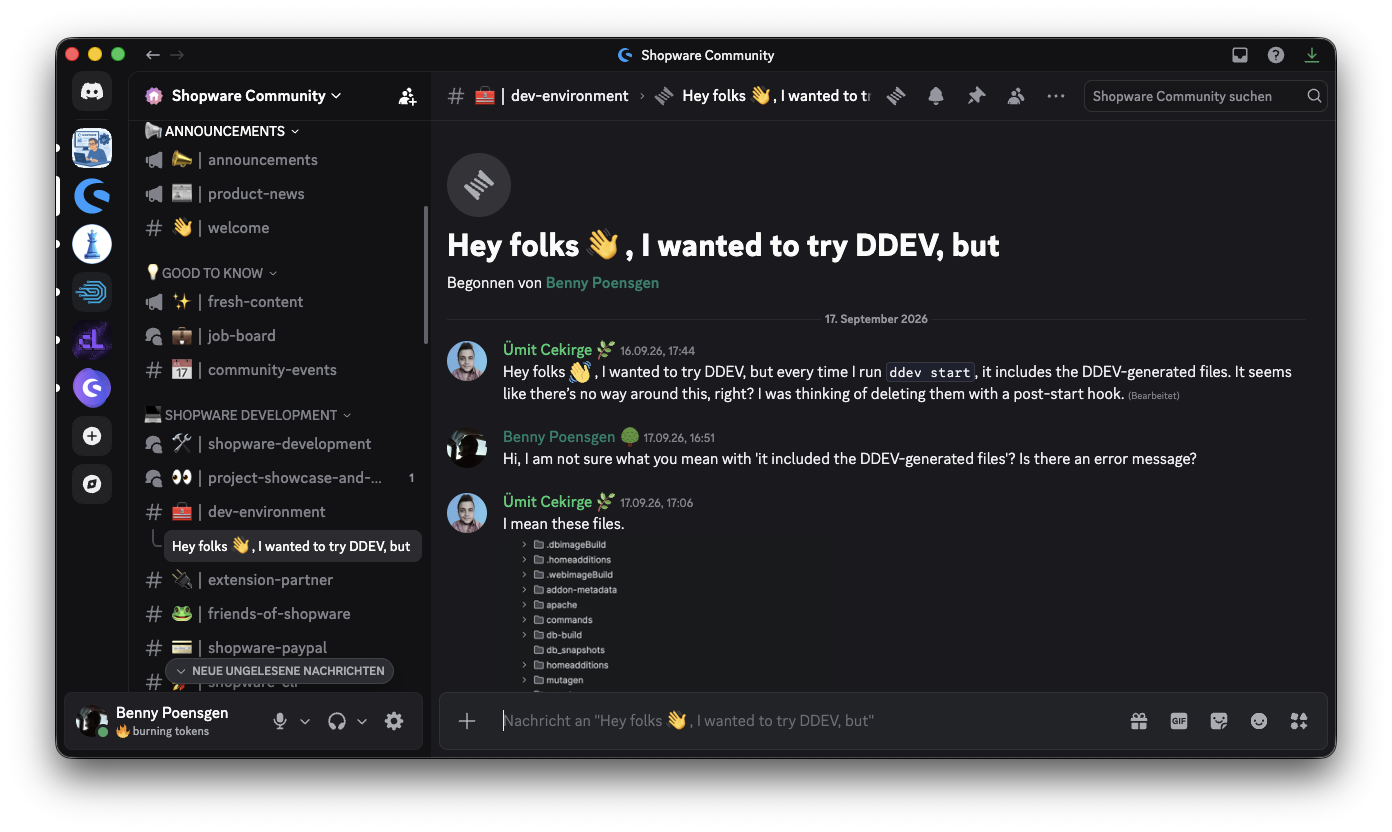
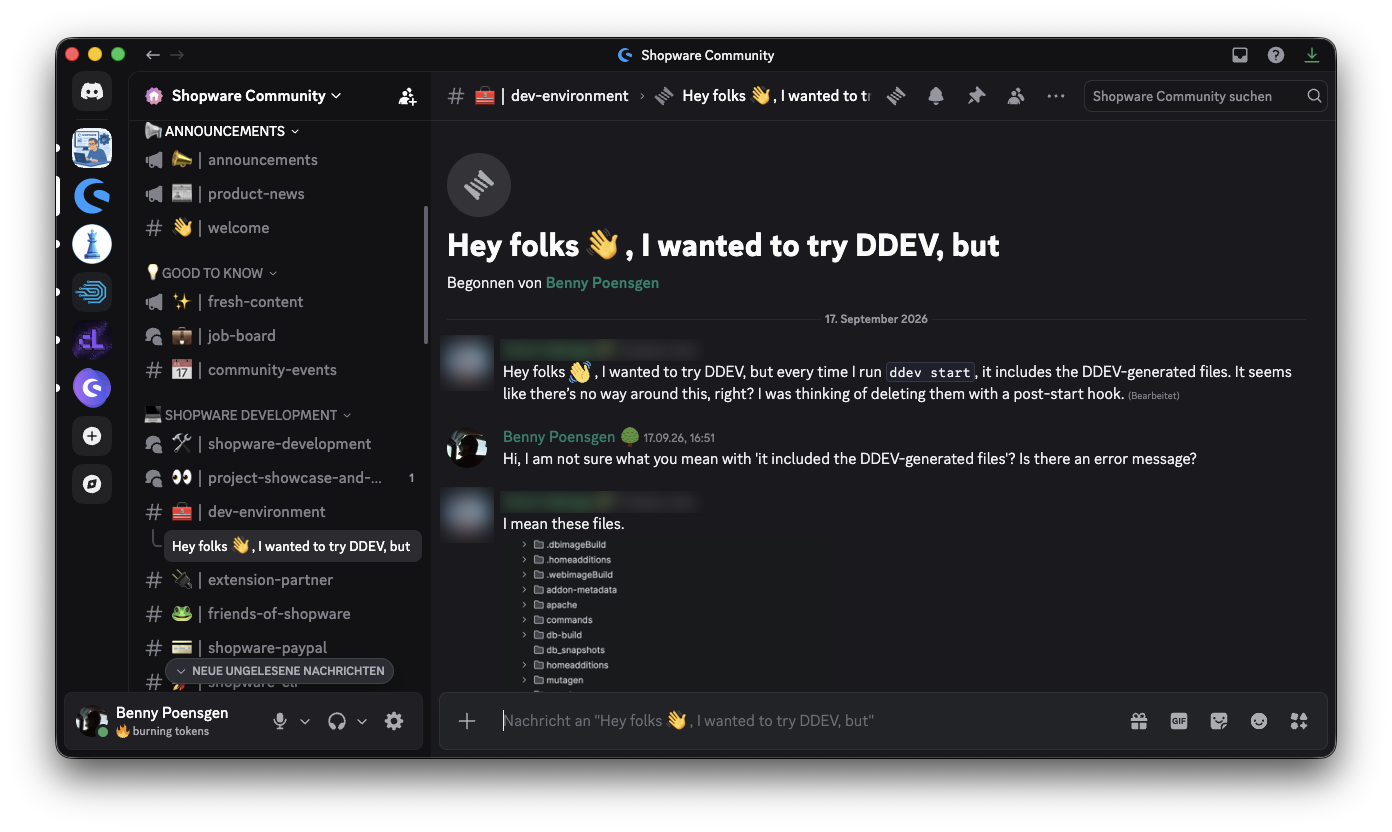
Improve slide layout and blur community member in screenshot
- Media Proxy: show the whole nginx config without scrolling
- Architecture Basics: slightly smaller bullets to clear the controls
- Discord screenshot: blur another member's avatar and name

Changed region(s): [[0.3089, 0.5625, 0.4943, 0.6562], [0.3089, 0.4062, 0.4943, 0.4688]]

diff --git a/css/custom.css b/css/custom.css
@@ -515,12 +515,17 @@
     display: block;
 }
 
-/* Media Proxy slide: cap code block height, scroll the rest */
+/* Media Proxy slide: fit the whole config on screen without scrolling */
 /* code.hljs is needed to beat reveal's `html:not(.print-pdf) .reveal .hljs` rule */
 .reveal .media-proxy pre code.hljs {
-    max-height: 250px;
-    overflow-y: auto;
-    font-size: 11pt;
+    max-height: none;
+    font-size: 10pt;
+    line-height: 1.2;
+}
+
+/* Text-heavy slides: slightly smaller bullets to keep clear of the controls */
+.reveal .slides section.dense li {
+    font-size: 0.9em;
 }
 
 /* Title slide: logos side by side.

diff --git a/slides/ddev-shopware-live-training.md b/slides/ddev-shopware-live-training.md
@@ -78,6 +78,7 @@ Find me there: <a href="https://discord.com/users/bennypoensgen" target="_blank"
 --
 
 ## Architecture Basics
+<!-- .slide: class="dense" -->
 
 * Note the non-standard versioning: 6.7.15.1 - "Shopware 6" with 7.15.1 designating the major, minor and patch version
 * Based on Symfony 7.4, makes use of message queues, mailer, caching, flysystem etc.
